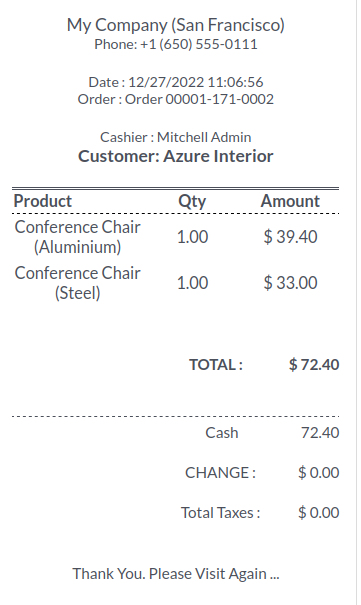
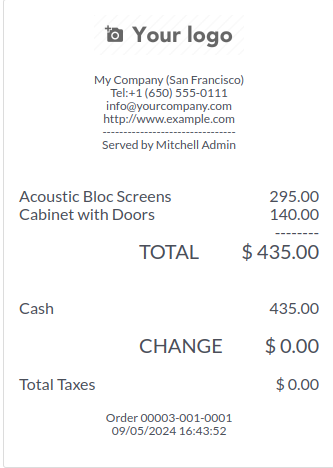
Sep 06: [FIX] Bug Fixed 'custom_receipts_for_pos'

diff --git a/custom_receipts_for_pos/models/pos_config.py b/custom_receipts_for_pos/models/pos_config.py
@@ -27,6 +27,10 @@ from odoo import fields, models
 class PosConfig(models.Model):
     _inherit = "pos.config"
 
-    receipt_design = fields.Many2one('pos.receipt', string="Receipt Design", help="Choose any receipt design")
-    design_receipt = fields.Text(related='receipt_design.design_receipt', string='Receipt XML')
+    receipt_design = fields.Many2one('pos.receipt', string="Receipt Design",
+                                     help="Choose any receipt design")
+    design_receipt = fields.Text(related='receipt_design.design_receipt',
+                                 string='Receipt XML')
     is_custom_receipt = fields.Boolean(string='Is Custom Receipt')
+    logo = fields.Binary(related='company_id.logo', string='Logo',
+                         readonly=False)

diff --git a/custom_receipts_for_pos/__manifest__.py b/custom_receipts_for_pos/__manifest__.py
@@ -23,7 +23,7 @@
 
 {
     'name': 'POS Receipt Design',
-    'version': '16.0.1.0.0',
+    'version': '16.0.1.0.1',
     'summary': """Option to select the customised Receipts for each POS""",
     'description': "Option to select the customised Receipts for each POS",
     'category': 'Point of Sale',

diff --git a/custom_receipts_for_pos/doc/RELEASE_NOTES.md b/custom_receipts_for_pos/doc/RELEASE_NOTES.md
@@ -6,3 +6,7 @@
 Initial Commit for POS Receipt Designs.
 
 
+#### 06.09.2024
+#### Version 16.0.1.0.1
+#### BUGFIX
+- Fixed the missing company logo in the pos receipts when printing.
